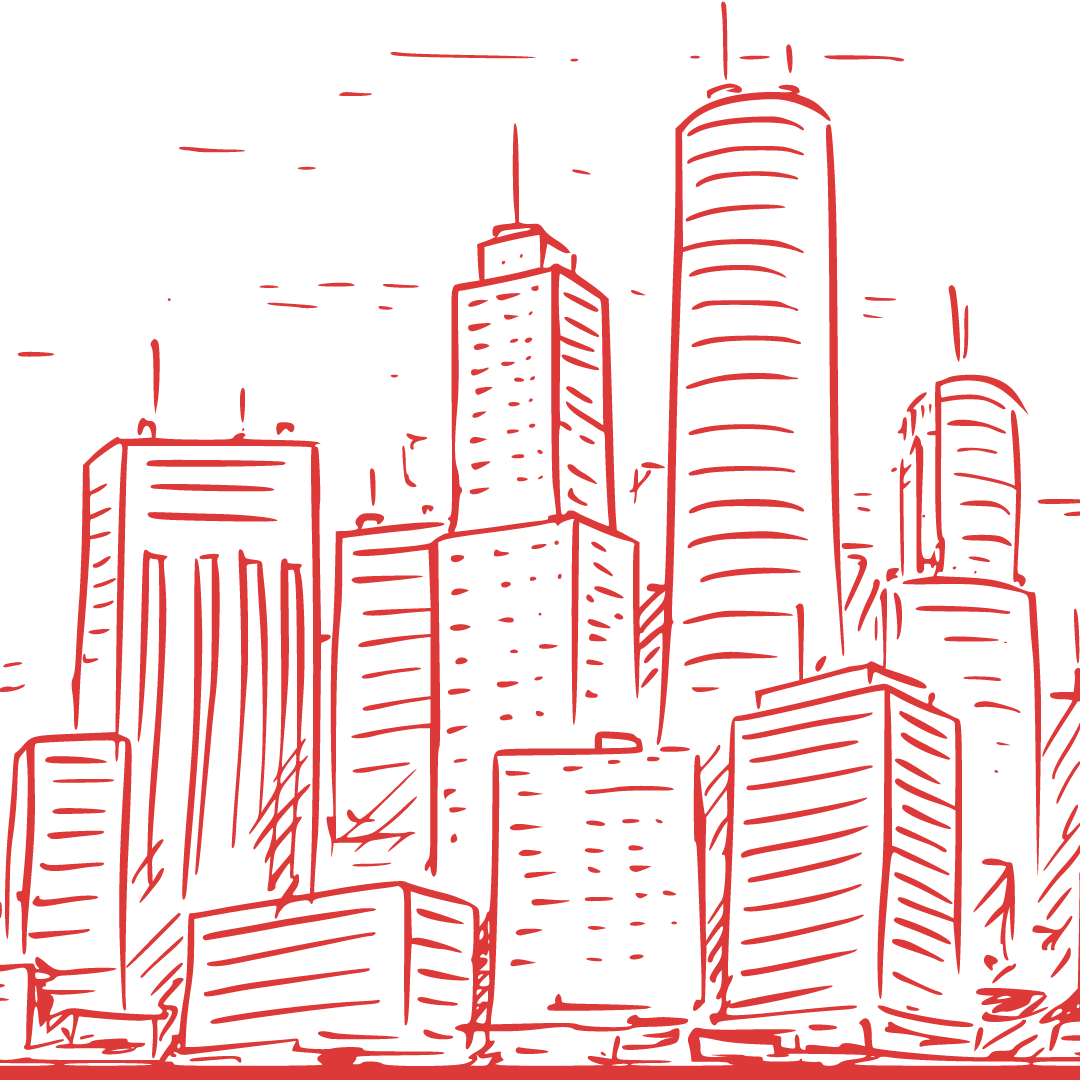
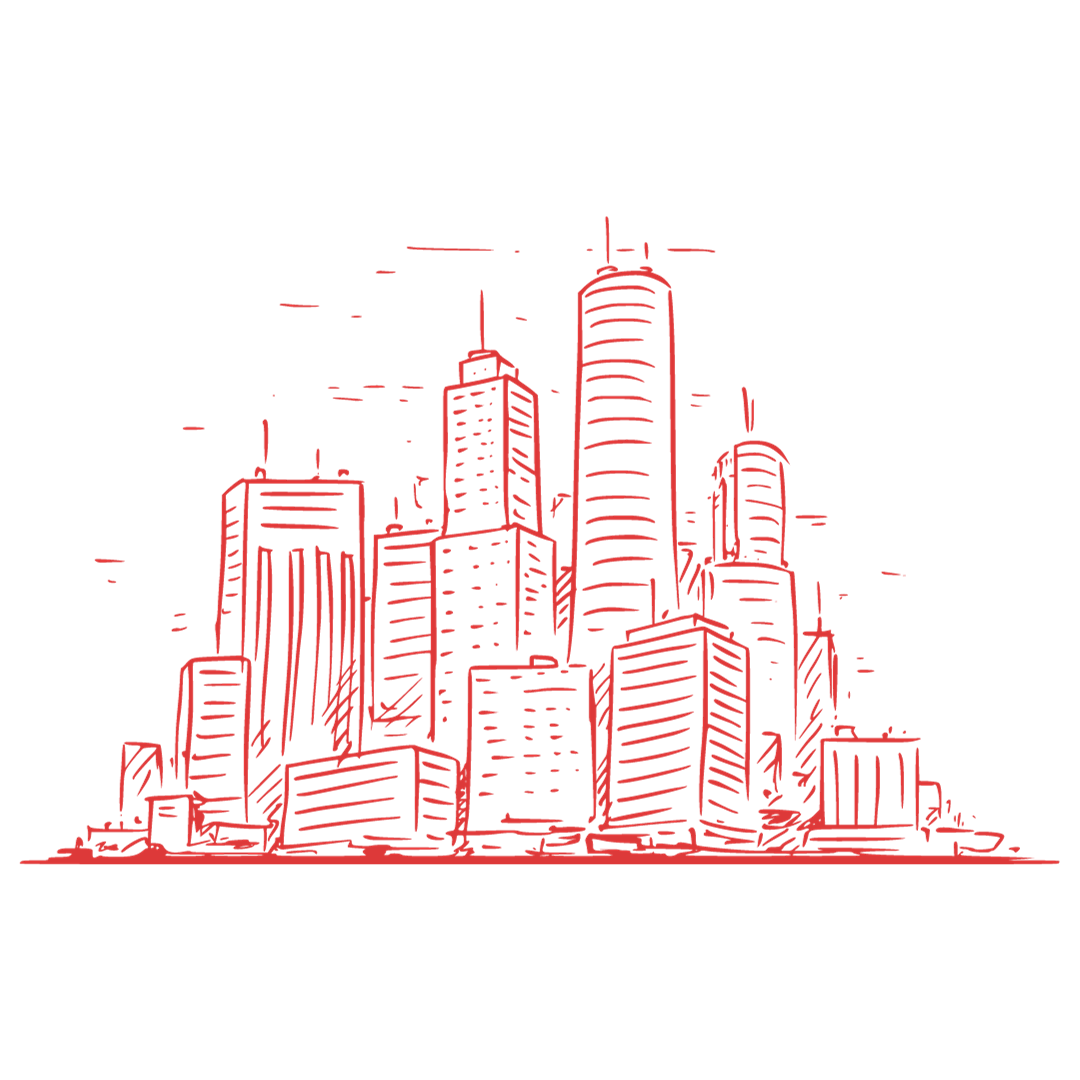
Testimonial finished

diff --git a/src/Sections/Testimonials.js b/src/Sections/Testimonials.js
@@ -45,6 +45,44 @@ export default function Testimonials() {
       <p className="p">Our clients opinion</p>
       <h2 className="heading-secondary">Testimonials</h2>
 
+      <div className="swiper-div">
+        <Swiper {...swiperSettings}>
+          {testimonailsEl.map((el, index) => (
+            <SwiperSlide key={el.name + index}>
+              <div className="testimonials-grid">
+                <div className="testimonials-div testimonial-border">
+                  <img
+                    className="testimonial-img"
+                    src={el.photo}
+                    alt={el.name + " profile image"}
+                  />
+                  <p>{el.name}</p>
+                </div>
+                <div className="testimonials-div">
+                  <p>{el.review}</p>
+
+                  <div className="stars-div">
+                    {[1, 2, 3, 4, 5].map((index) => (
+                      <img
+                        key={index}
+                        className="star-img"
+                        src={
+                          el.rating >= index
+                            ? "/svg/yellow star.png"
+                            : "/svg/star-outline.png"
+                        }
+                        alt={
+                          el.rating >= index ? "Yellow star" : "Star outline"
+                        }
+                      />
+                    ))}
+                  </div>
+                </div>
+              </div>
+            </SwiperSlide>
+          ))}
+        </Swiper>
+      </div>
       <div className="testimonials-draw-div">
         <img
           className="draw-img"
@@ -52,40 +90,6 @@ export default function Testimonials() {
           alt="City in the background draw"
         />
       </div>
-      <Swiper {...swiperSettings}>
-        {testimonailsEl.map((el, index) => (
-          <SwiperSlide key={el.name + index}>
-            <div className="testimonials-grid">
-              <div className="testimonials-div testimonial-border">
-                <img
-                  className="testimonial-img"
-                  src={el.photo}
-                  alt={el.name + " profile image"}
-                />
-                <p>{el.name}</p>
-              </div>
-              <div className="testimonials-div">
-                <p>{el.review}</p>
-
-                <div className="stars-div">
-                  {[1, 2, 3, 4, 5].map((index) => (
-                    <img
-                      key={index}
-                      className="star-img"
-                      src={
-                        el.rating >= index
-                          ? "/svg/yellow star.png"
-                          : "/svg/star-outline.png"
-                      }
-                      alt={el.rating >= index ? "Yellow star" : "Star outline"}
-                    />
-                  ))}
-                </div>
-              </div>
-            </div>
-          </SwiperSlide>
-        ))}
-      </Swiper>
     </section>
   );
 }

diff --git a/src/CSS/testimonials.css b/src/CSS/testimonials.css
@@ -1,5 +1,4 @@
 .testimonials-section {
-  max-width: 120rem;
   margin: 0 auto;
   position: relative;
 }
@@ -13,6 +12,8 @@
   gap: 1.6rem;
   padding: 3.6rem;
   box-shadow: 0 0 20px rgba(0, 0, 0, 0.199);
+  background-color: white;
+  z-index: 1;
 }
 
 .testimonials-div {
@@ -52,13 +53,18 @@
   width: 1.5rem;
 }
 
+.swiper-div {
+  position: relative;
+  z-index: 1;
+}
+
 .testimonials-draw-div {
-  width: 20%;
+  width: 30%;
   position: absolute;
+  transform: translateY(-30%);
   top: 0;
-  right: 0;
-  bottom: 0;
-  left: 0;
+  right: -10%;
+  z-index: -1;
 }
 
 .draw-img {
